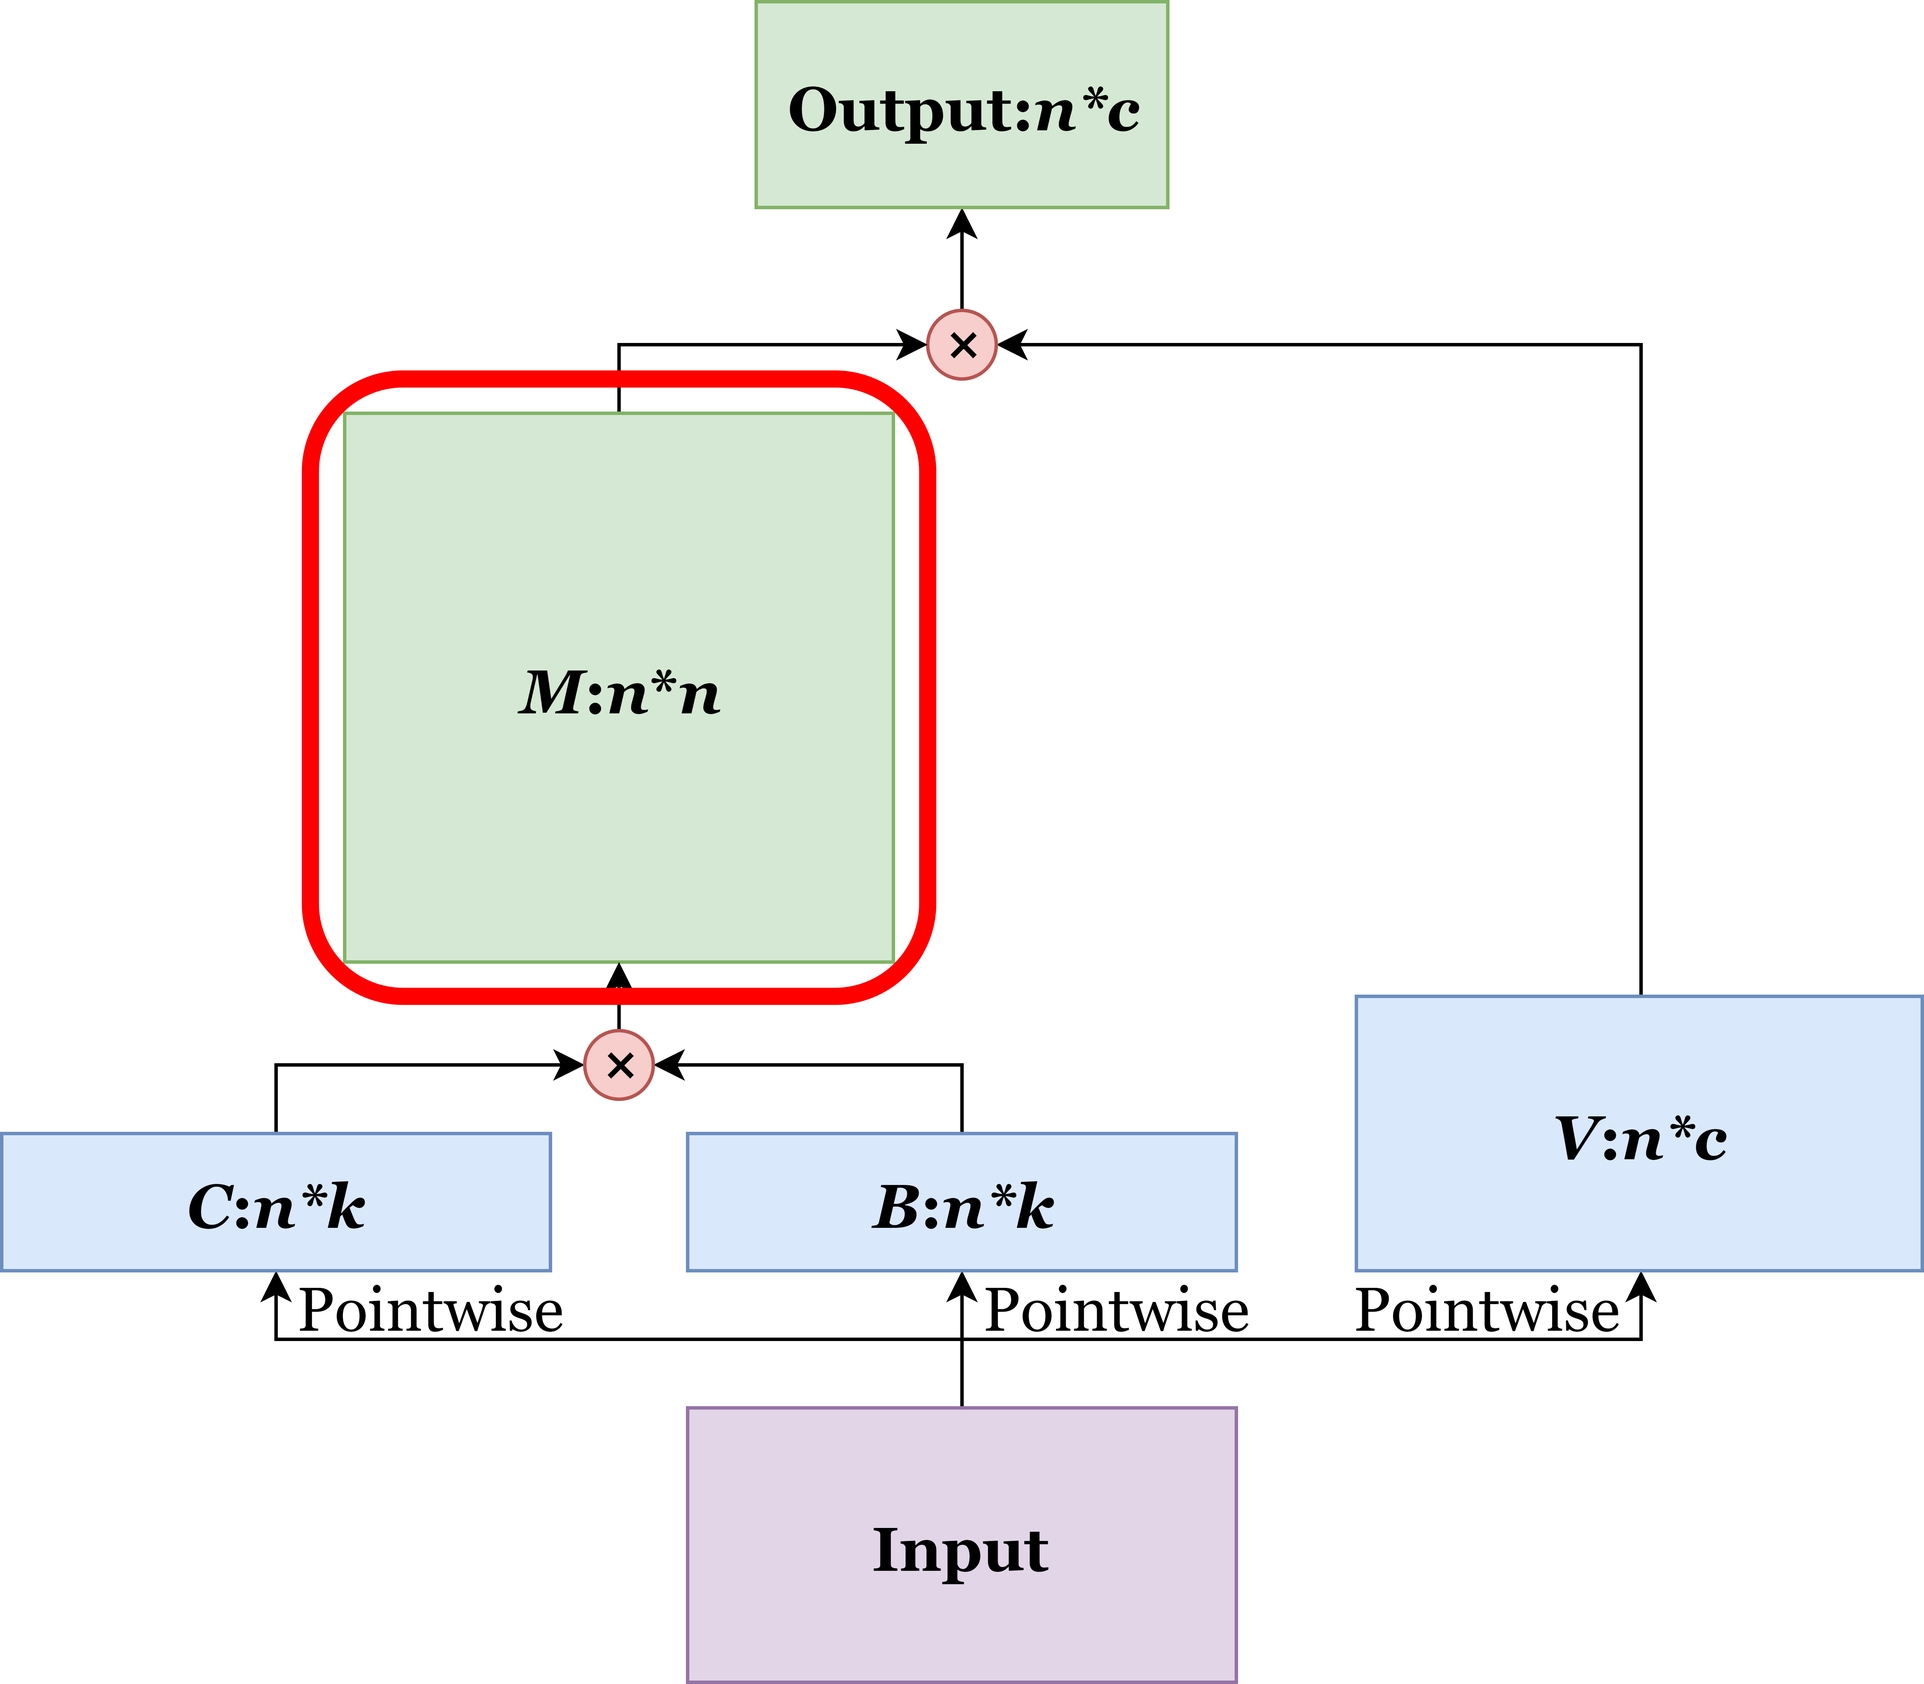
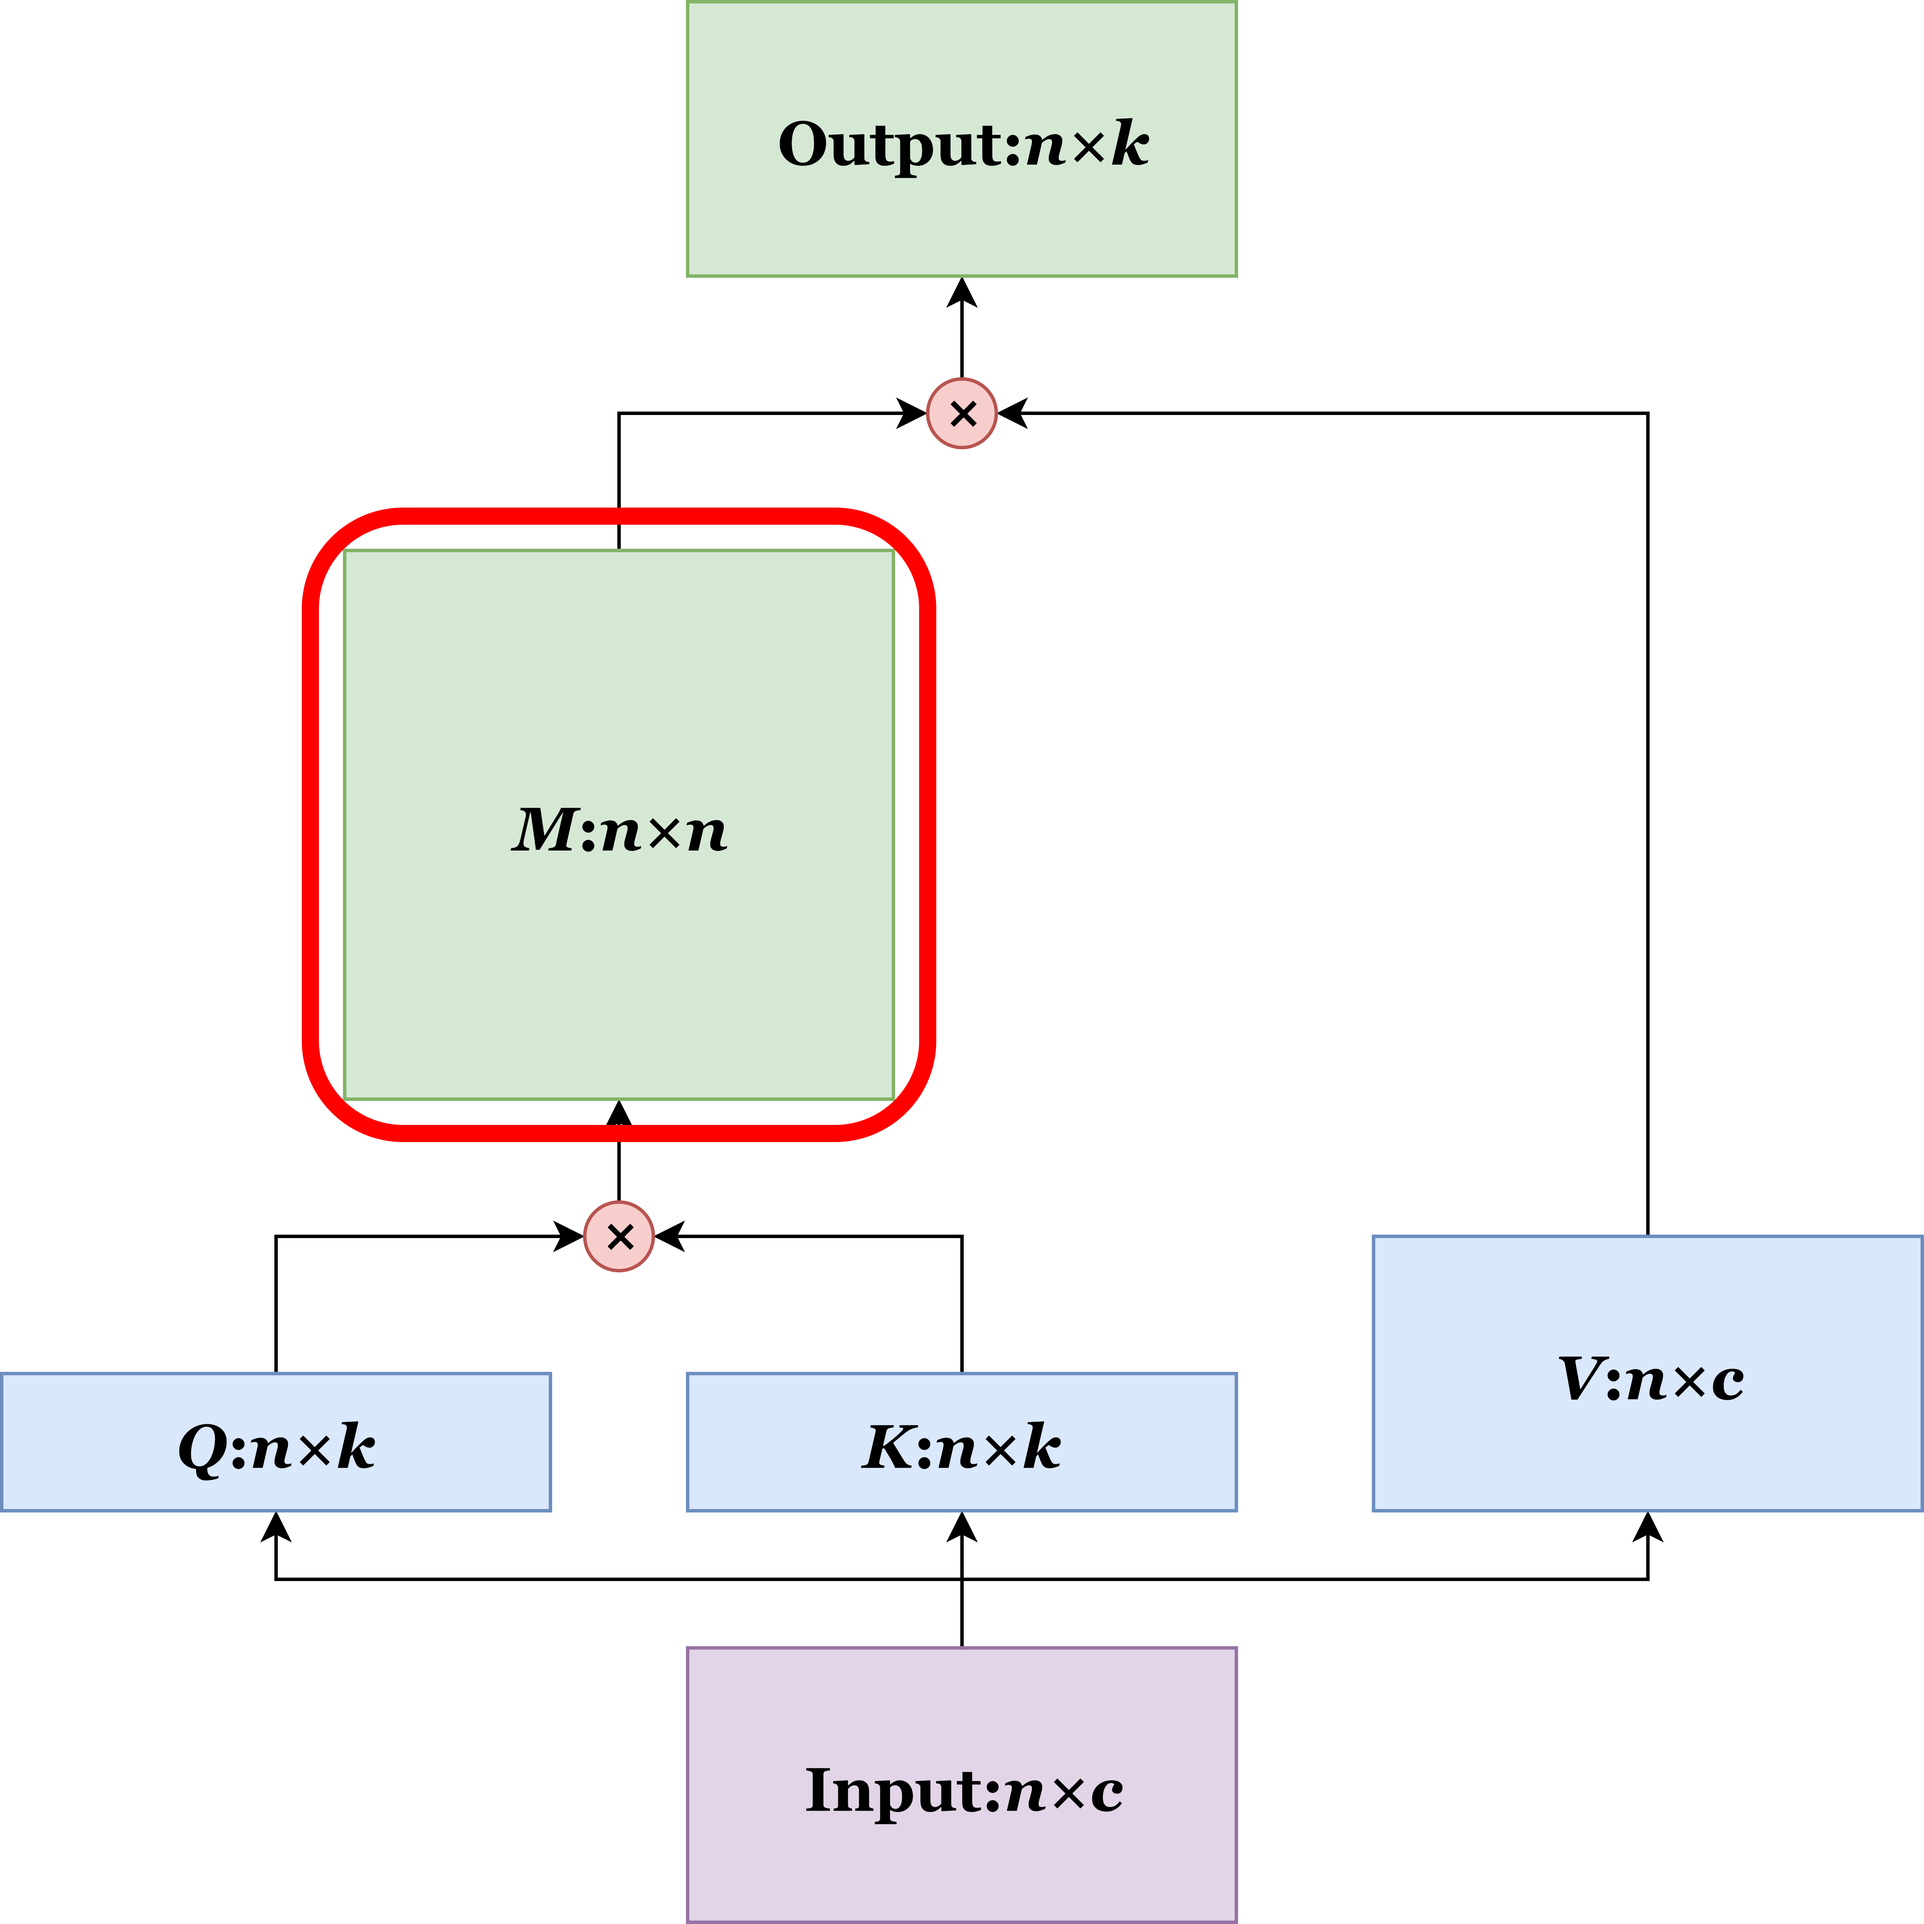
Update EA post figures

diff --git a/_posts/2019-12-02-efficient-attention.md b/_posts/2019-12-02-efficient-attention.md
@@ -49,7 +49,7 @@ However, if we more closely examine the diagram, we can see that `M` is surround
 
 After the swapping, the size of the intermediate result changes from `n*n` to `k*c`. Since both `k` and `c` are constants under our control, the resultant memory complexity is `O(1)`. After some calculation, you can get the computational complexity, which is `O(n)`. This is the *efficient attention* mechanism.
 
-![Illustration of the network architecture for efficient attention](/assets/2019-12-02-efficient-attention/da.png)
+![Illustration of the network architecture for efficient attention](/assets/2019-12-02-efficient-attention/ea.png)
 
 ## What about Normalization?
 
